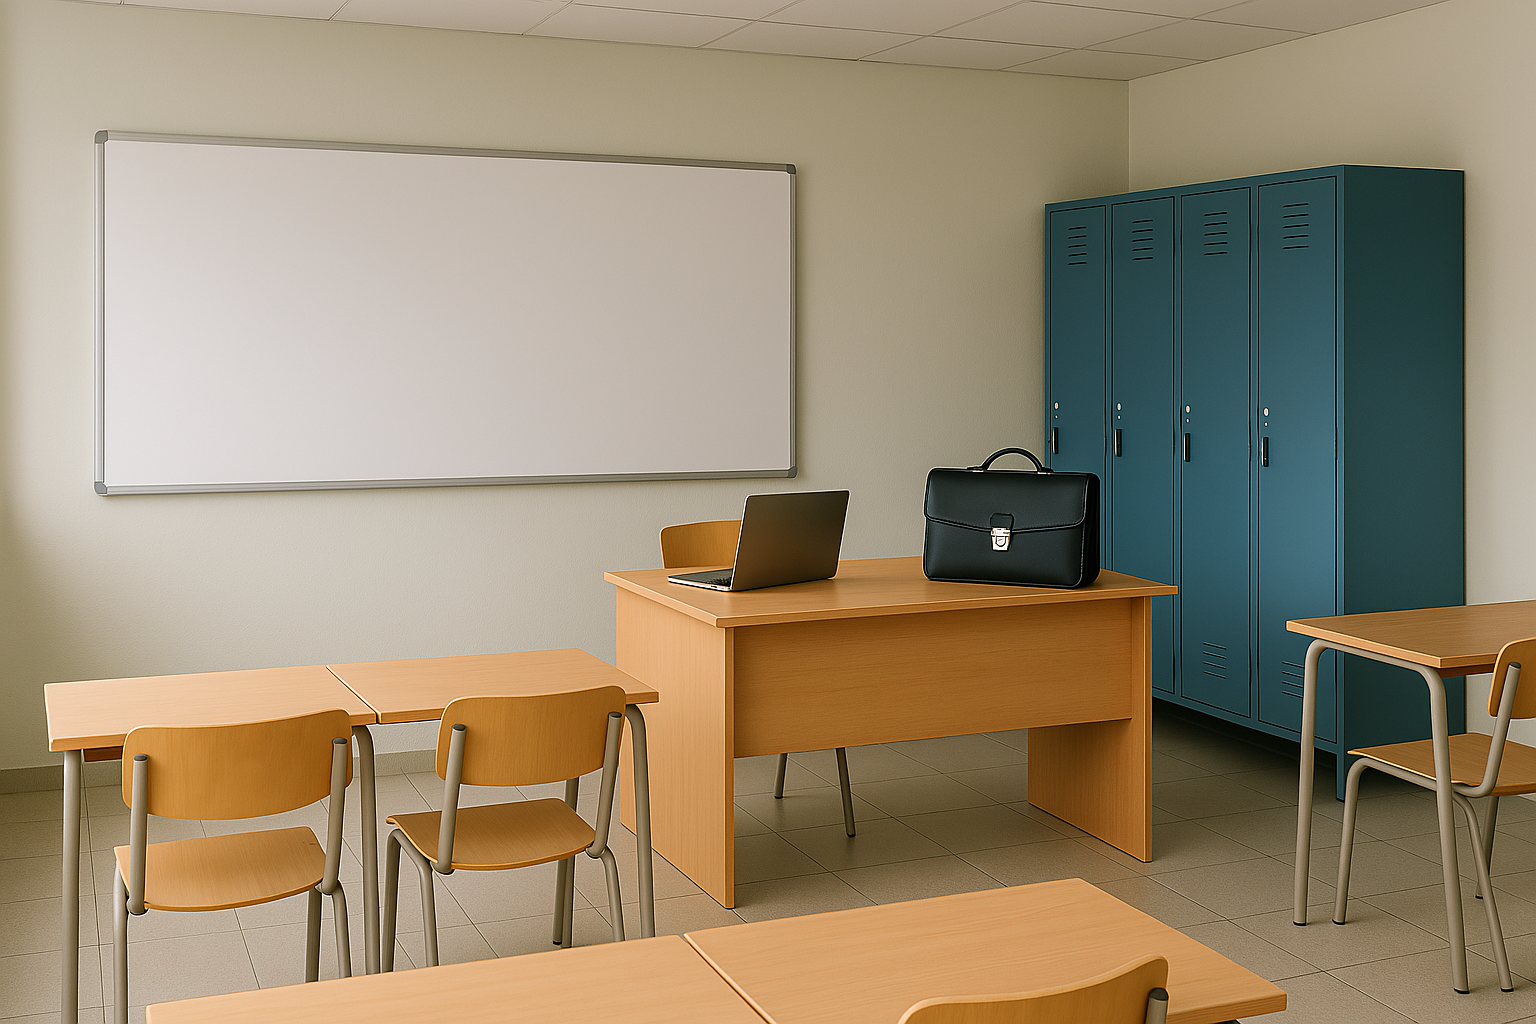
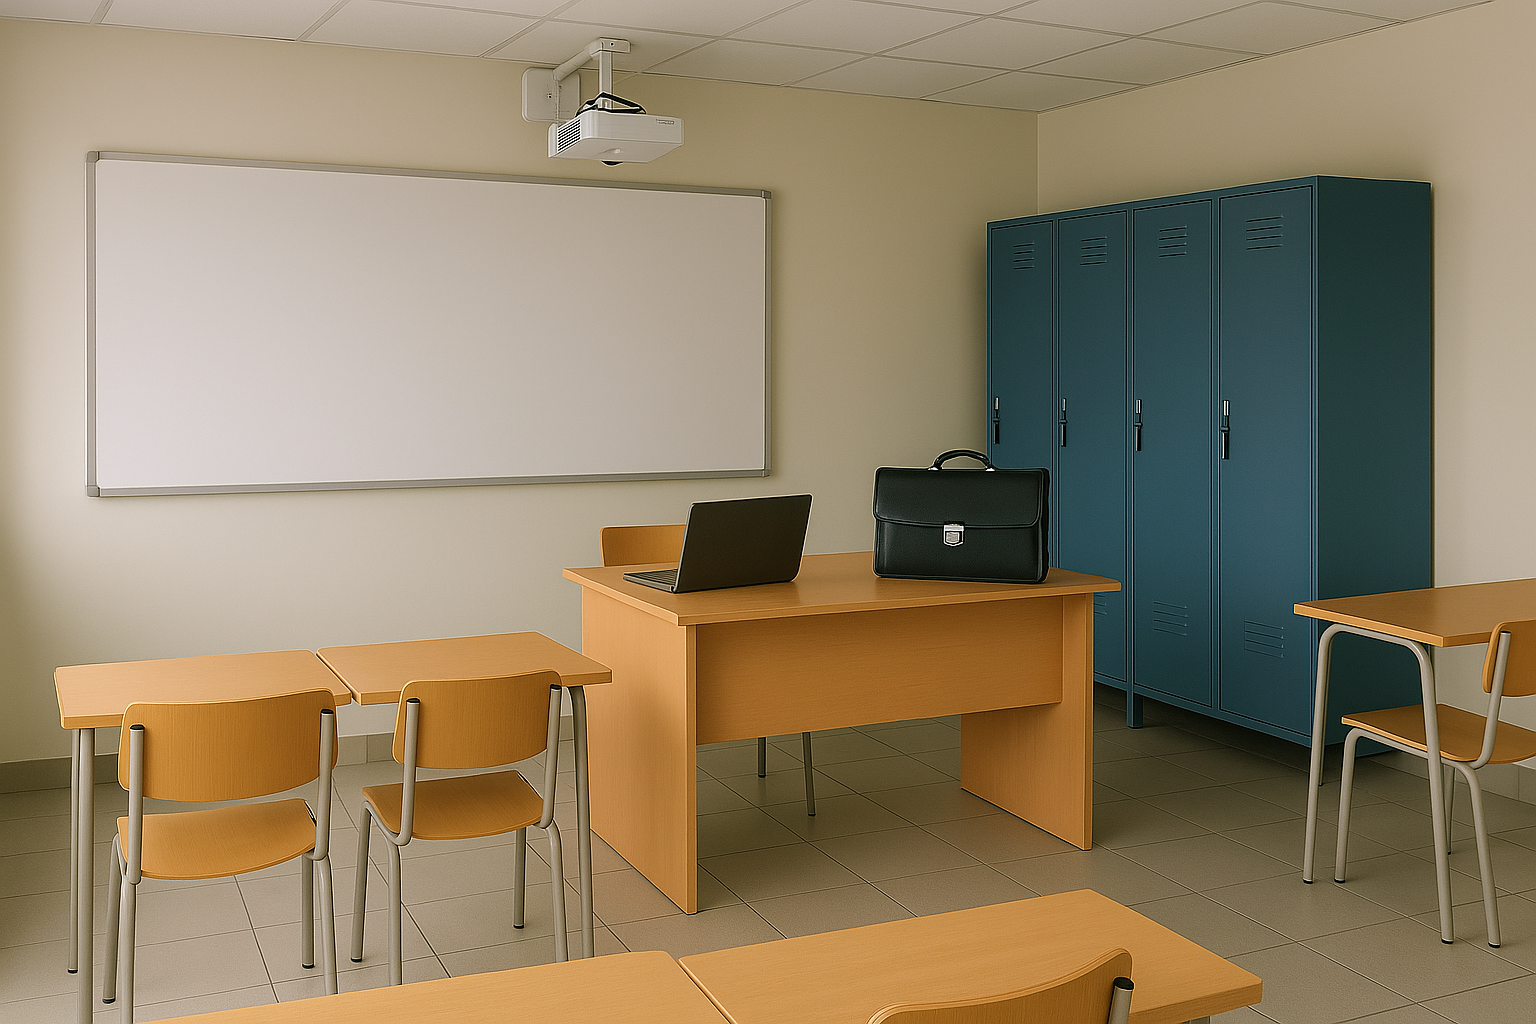
new file:   assets/Beamer.png 	modified:   assets/Classroom.png new file:   assets/ClassroomWithRebus.png 	modified:   css/start.css 	modified:   javascript/back.js 	modified:   javascript/beamer.js 	modified:   javascript/main.js

diff --git a/javascript/main.js b/javascript/main.js
@@ -136,21 +136,17 @@ export const inputBeamer = document.querySelector("#codeBeamer");
 const backBeamer = document.querySelector(".backBeamer img");
 
 buttonBeamer.addEventListener("click", () => {
-    background.classList.remove('backgroundClass');
-
-    Locker.classList.add("invisible");
-    Bag.classList.add("invisible");
-    Laptop.classList.add("invisible");
-    Door.classList.add("invisible");
-    Beamer.classList.add("invisible");
-    inputBeamer.classList.remove("invisible");
-    backBeamer.classList.remove("invisible");
-
     if (beamerIsUnlocked()) {
-        background.classList.add('beamerBackground');
-        inputBeamer.classList.add("invisible");
-        backBeamer.classList.add("invisible");
+        buttonBeamer.classList.add("invisible");
     } else {
-        background.classList.add('lockedBeamerBackground')
+        background.classList.remove('backgroundClass');
+        background.classList.add("lockedBeamerBackground");
+        Locker.classList.add("invisible");
+        Bag.classList.add("invisible");
+        Laptop.classList.add("invisible");
+        Door.classList.add("invisible");
+        Beamer.classList.add("invisible");
+        inputBeamer.classList.remove("invisible");
+        backBeamer.classList.remove("invisible");
     }
 });

diff --git a/javascript/back.js b/javascript/back.js
@@ -77,12 +77,12 @@ backDoor.addEventListener("click", () => {
 });
 //back to class from beamer
 import { inputBeamer } from "./main.js";
+import { beamerIsUnlocked } from "./beamer.js";
 const backBeamer = document.querySelector(".backBeamer img");
-
+const beamer = document.querySelector(".beamer");
 backBeamer.addEventListener("click", ()=>{
     background.classList.remove("lockedBeamerBackground");
     background.classList.remove("beamerBackground");
-    background.classList.add("backgroundClass");
     backBeamer.classList.add("invisible");
     inputBeamer.classList.add("invisible");
     Locker.classList.remove("invisible");
@@ -90,4 +90,10 @@ backBeamer.addEventListener("click", ()=>{
     Laptop.classList.remove("invisible");
     Door.classList.remove("invisible");
     Beamer.classList.remove("invisible");
+    if(beamerIsUnlocked()){
+        background.classList.add("backgroundClassRebus");
+        beamer.classList.add("invisible");
+    }else{
+        background.classList.add("backgroundClass");
+    }
 })

diff --git a/css/start.css b/css/start.css
@@ -13,6 +13,9 @@ html {
 .backgroundClass {
     background-image: url('../assets/Classroom.png');
 }
+.backgroundClassRebus{
+    background-image: url('../assets/ClassroomWithRebus.png');
+}
 
 .lockerBackground {
     background-image: url('../assets/Locker.png');
@@ -32,9 +35,6 @@ html {
 .doorBackground{
     background-color: blue;
 }
-.beamerBackground{
-    background-color: brown;
-}
 .lockedLaptopBackground {
     background-image: url('../assets/closedlaptop.png');
 }
@@ -50,7 +50,7 @@ html {
     background-color: red;
 }
 .lockedBeamerBackground{
-    background-color: yellow;
+    background-image: url("../assets/Beamer.png");
 }
 .background {
     position: fixed;

diff --git a/javascript/beamer.js b/javascript/beamer.js
@@ -16,8 +16,6 @@ guess.addEventListener("keypress", function (event) {
         background.classList.remove('backgroundClass')
 
         if (beamer.isUnlocked()) {
-            background.classList.add('beamerBackground');
-            background.classList.remove('lockedBeamerBackground');
             inputLocker.classList.add("invisible");
         } else {
             background.classList.add('lockedBeamerBackground');
